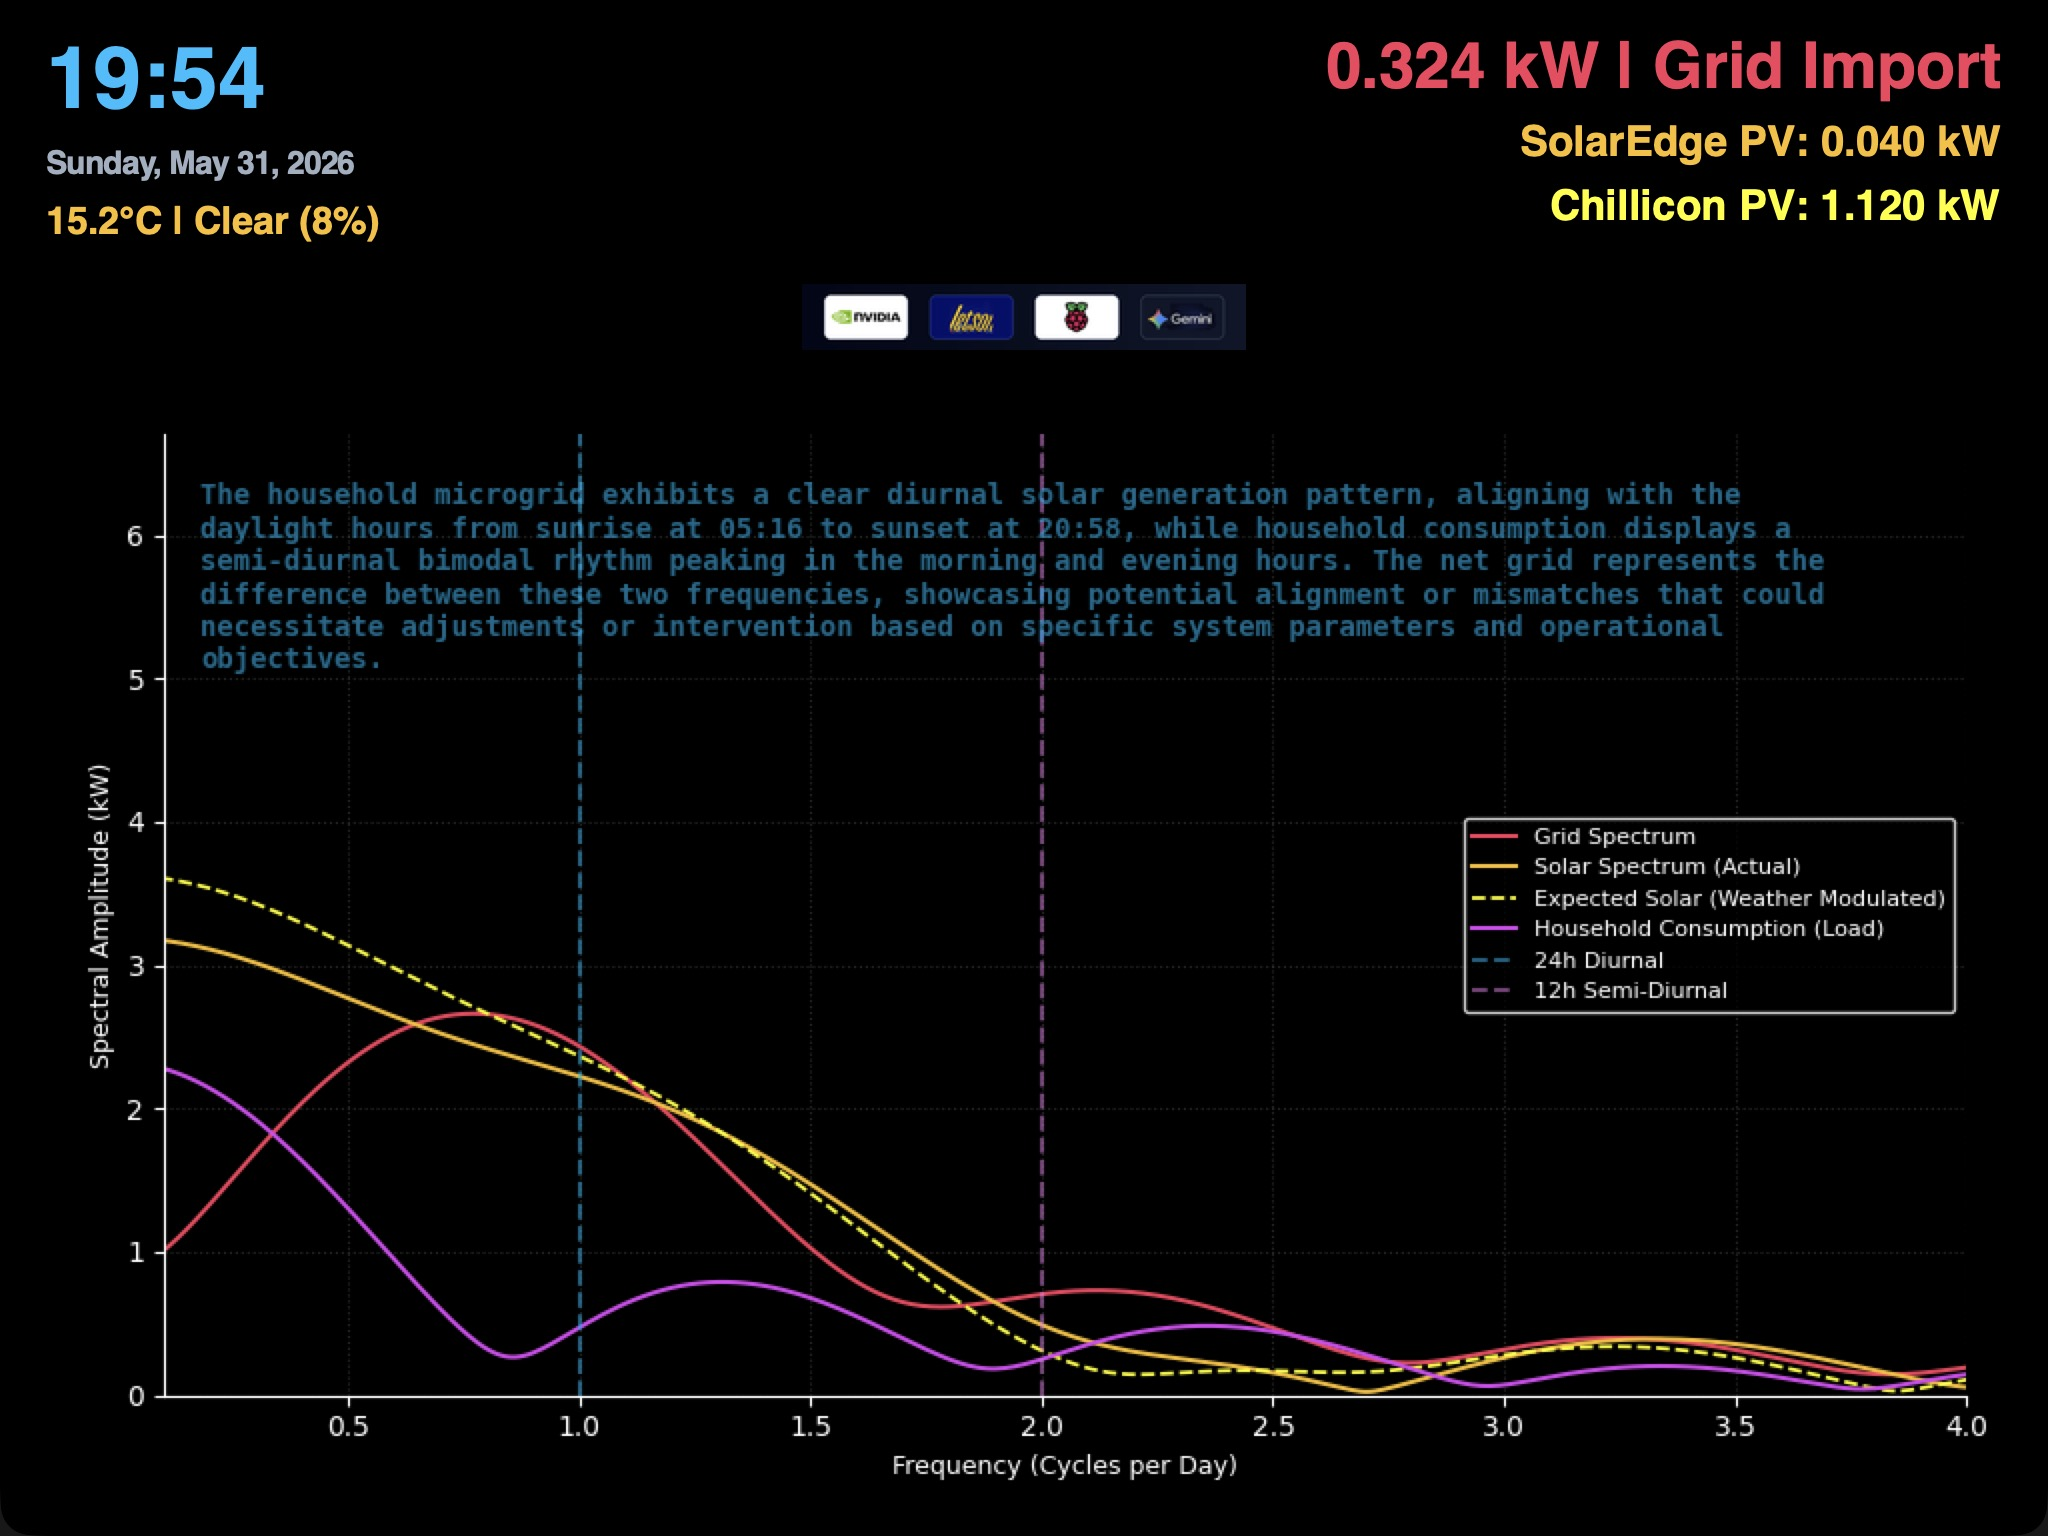
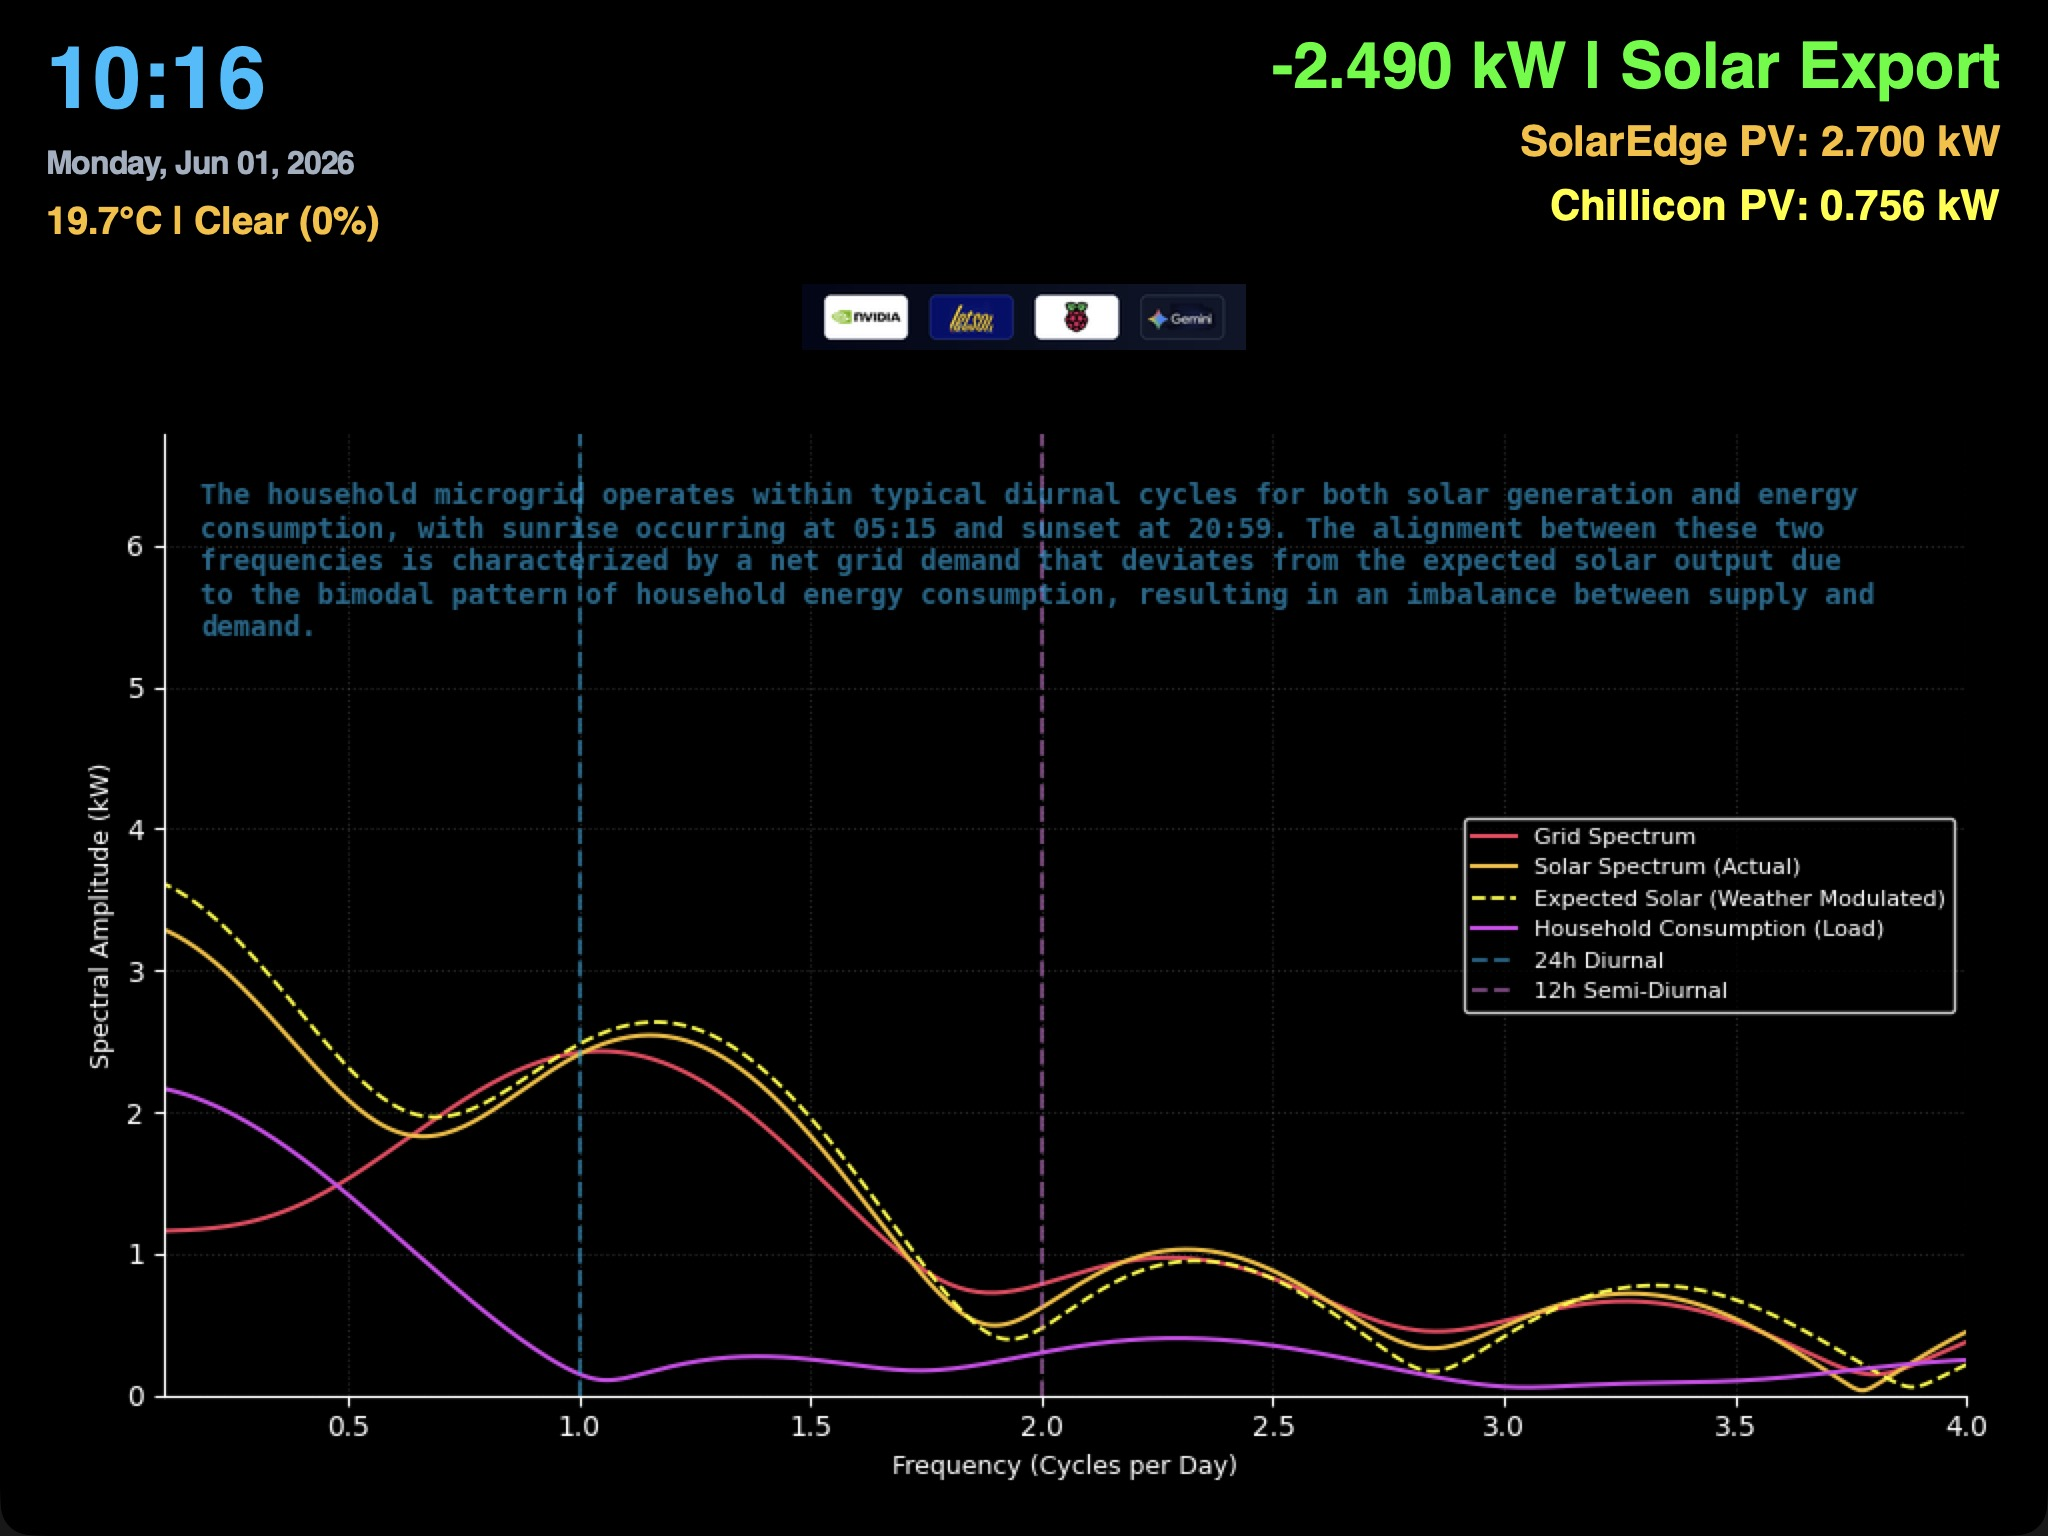
Fix Slide 2 AI summary watermark overlay and headroom spacing on the kiosk dashboard

diff --git a/dashboard.py b/dashboard.py
@@ -1570,6 +1570,24 @@ class GridDashboard(tk.Tk):
                 self.ax_freq.grid(color='gray', linestyle=':', alpha=0.3)
                 self.ax_freq.legend(facecolor='black', edgecolor='white', labelcolor='white', fontsize=8)
                 
+                # Increase top padding to leave the top portion of the plot free for text watermarks
+                max_amp = max(max(grid_amp), max(solar_amp), max(expected_solar_amp), max(consumption_amp)) if grid_amp else 1.0
+                self.ax_freq.set_ylim(0, max_amp * 1.85)
+                
+            # Recreate the text watermark on ax_freq since it was cleared
+            dft_text = self.local_dft_text if hasattr(self, 'local_dft_text') else ""
+            self.summary_text_obj_freq = self.ax_freq.text(
+                0.02, 0.95, self.wrap_text(dft_text),
+                transform=self.ax_freq.transAxes,
+                ha='left', va='top',
+                fontsize=SUMMARY_FONT_SIZE,
+                color=SUMMARY_COLOR,
+                alpha=SUMMARY_ALPHA,
+                fontfamily='monospace',
+                weight='bold',
+                zorder=10
+            )
+                
             self.fig.canvas.draw()
             t1 = time.perf_counter()
             logging.info(f"Matplotlib canvas draw took {(t1 - t0)*1000:.2f} ms (current_slide=2)")
